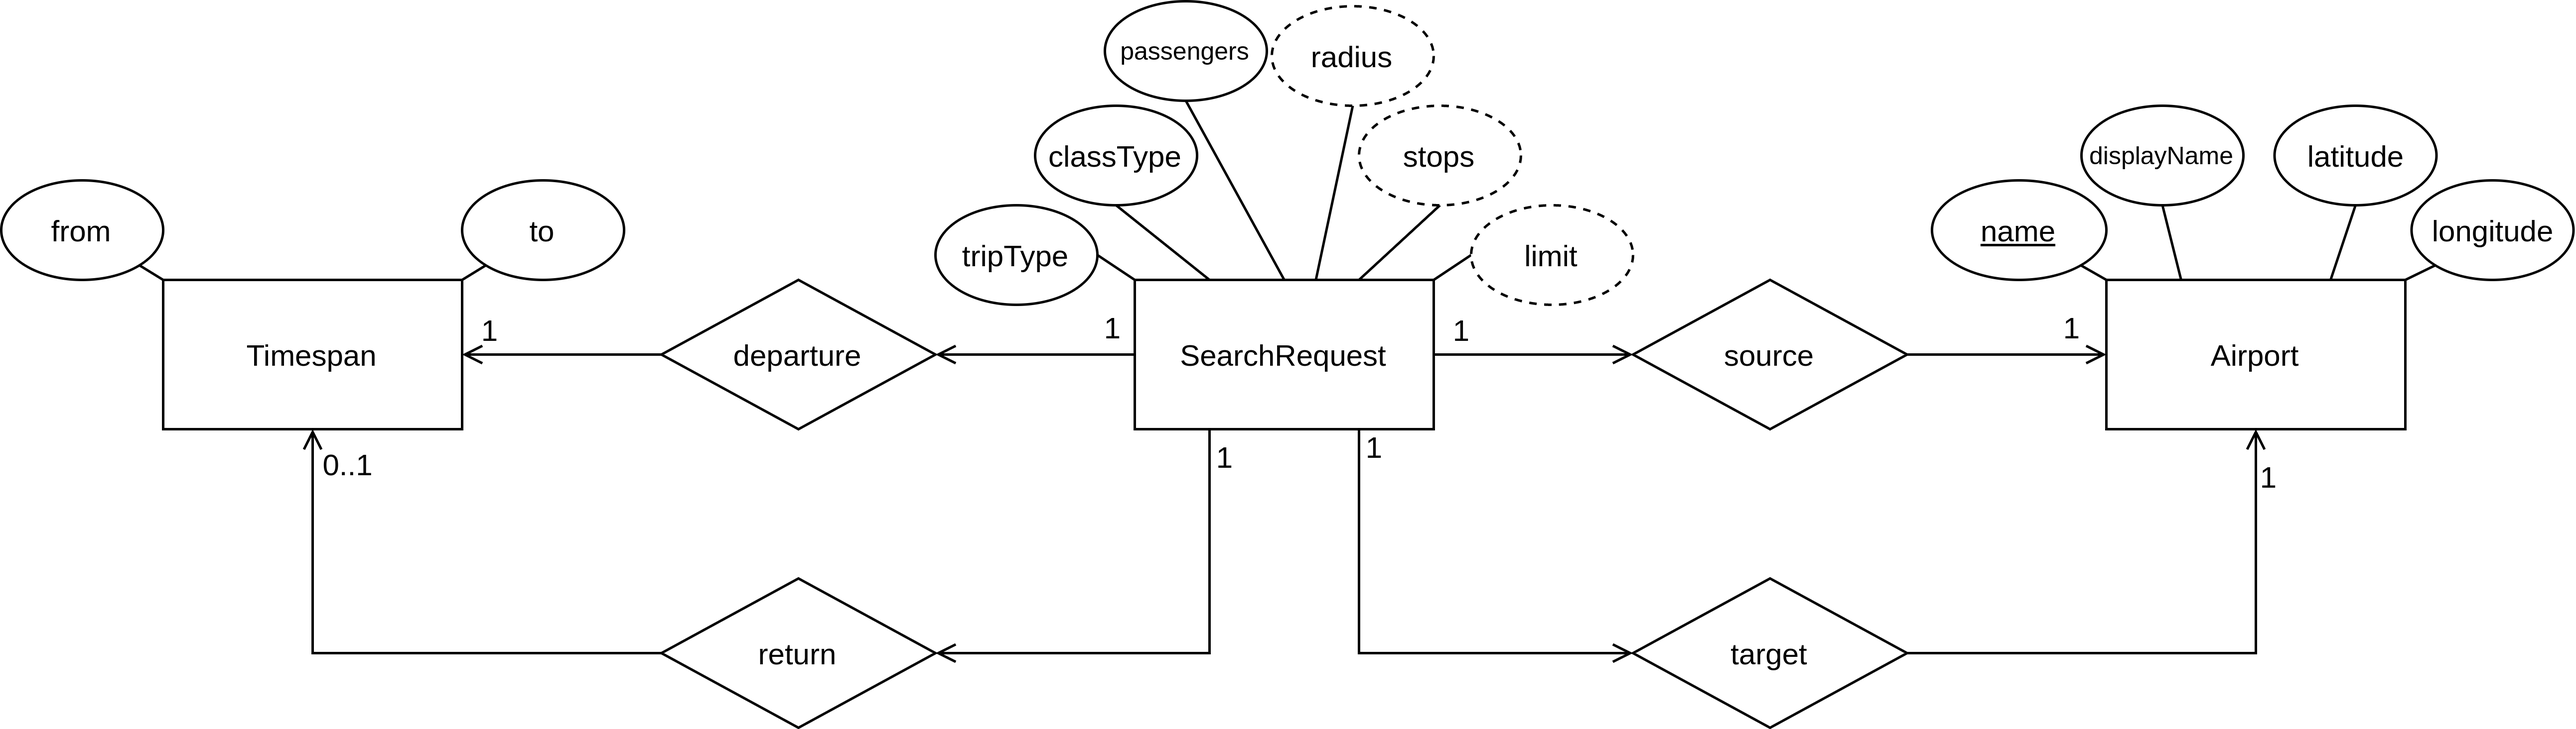
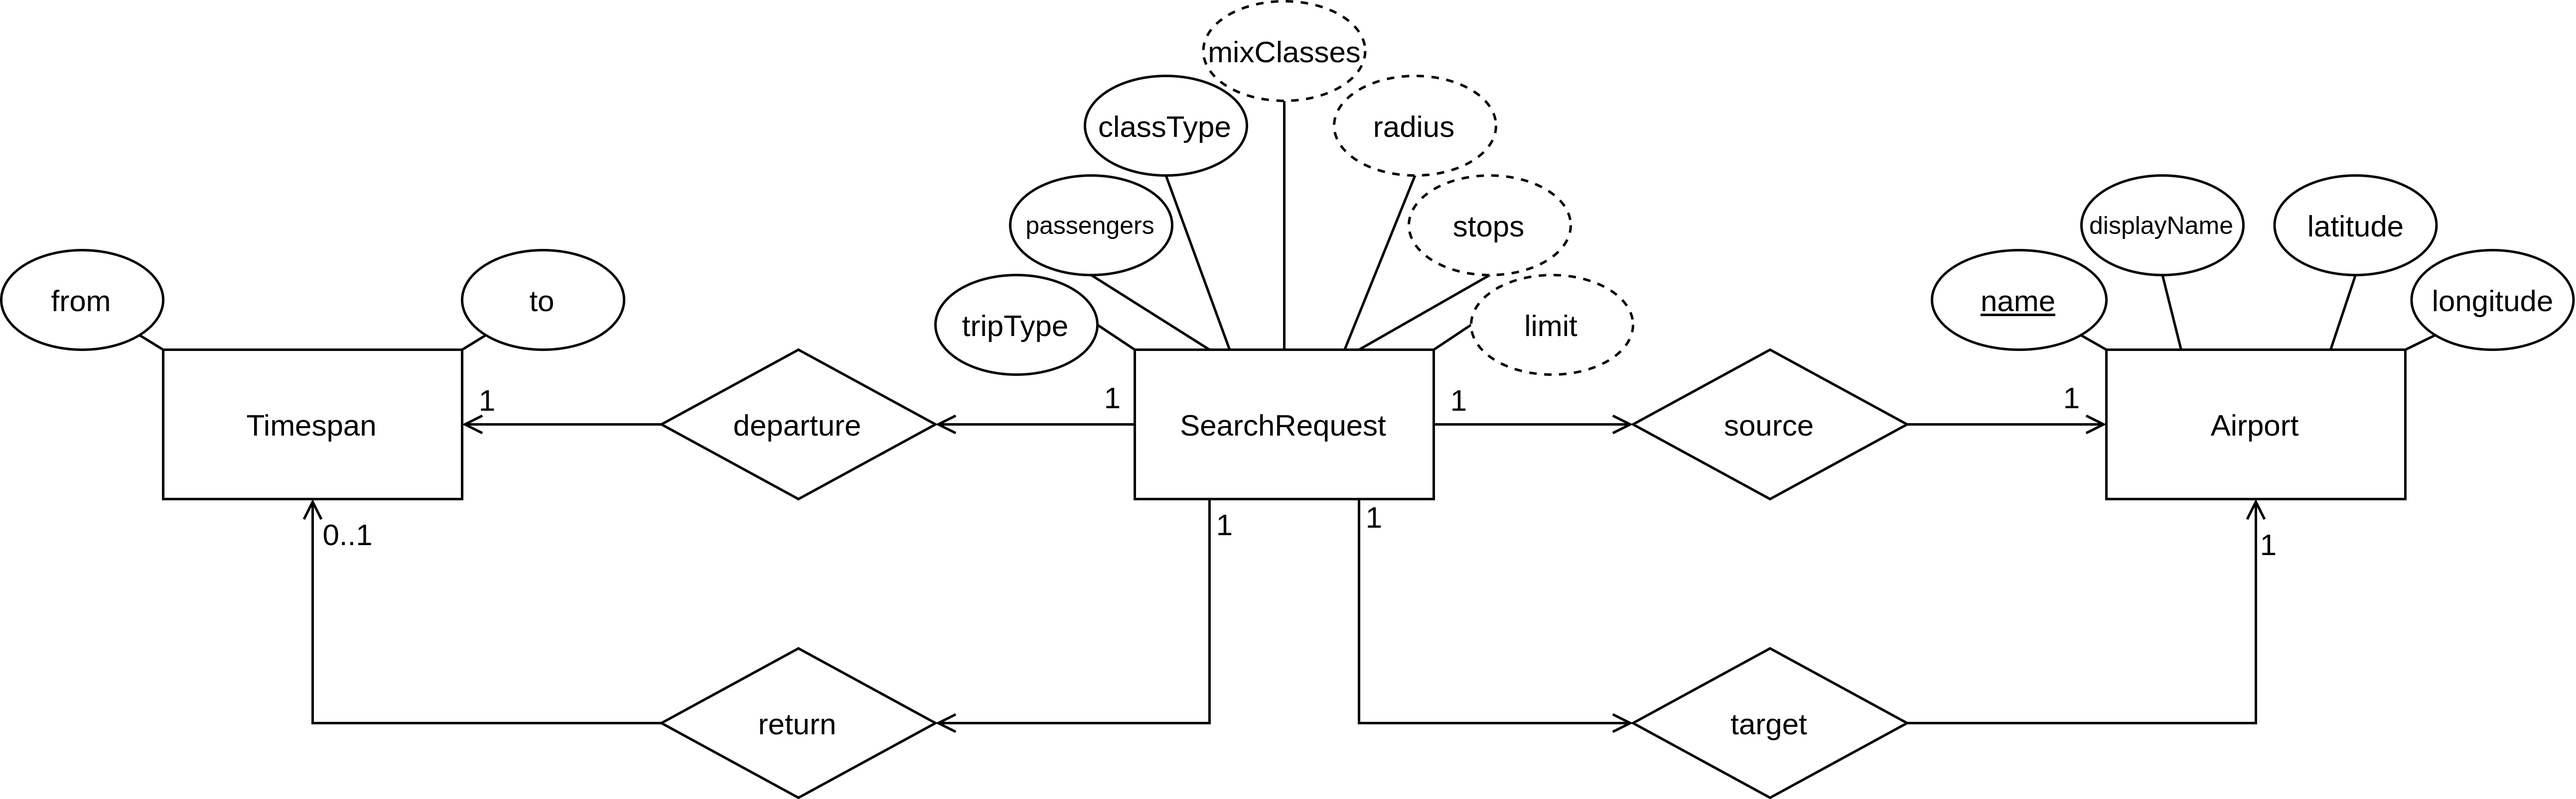
Update to new application state.

diff --git a/paper.tex b/paper.tex
@@ -124,7 +124,7 @@ Ein kostenloser Anbieter für ein Webrepository ist zum Beispiel \href{https://g
 Um Änderungen zwischen Branches auszutauschen bietet GitHub sogenannte \textit{pull requests}. In diesen werden die Änderungen übersichtich dargestellt und ein akzeptieren des Pull Request hat einen \textit{merge} in den Ziel-Branch zur Folge.\\
 Die Aufgabenorganisation wird mithilfe von \textit{Issues} durchgeführt, welche sich zusammensetzen aus Titel, Beschreibung und Metadaten wie Bearbeitender, Label oder Bearbeitungsstatus. Der Bearbeitungsstatus der Issues lässt sich in einem \textit{Project}-Board (zum Beispiel Kanban/Scrum) organisieren.\\
 Des Weiteren bietet \textit{GitHub Pages} die Möglichkeit, kostenlos statische Web-Inhalte zu hosten. Dabei kann eine \acrshort{ci} benutzt werden um die Inhalte aus dem jeweiligen Projekt automatisch zu generieren und veröffentlichen.\\
-Auf GitHub befinden sich für diese Studienarbeit sowohl die \href{https://github.com/featherkraken}{Repositories} als auch das automatisierte \href{https://github.com/orgs/featherkraken/projects/1}{Project-Board} dazu. Außerdem wurde die aktuelle Version des \href{https://featherkraken.github.io/featherkraken-ui/}{Frontends} und dieses \href{https://featherkraken.github.io/featherkraken-paper/paper.pdf}{Dokuments} in GitHub Pages veröffentlicht.
+Auf GitHub befinden sich für diese Studienarbeit sowohl die \href{https://github.com/featherkraken}{Repositories} als auch das automatisierte \href{https://github.com/orgs/featherkraken/projects/1}{Project-Board} dazu. Außerdem wurden die aktuelle Versionen des \href{https://featherkraken.github.io/featherkraken-ui/}{Frontends} und dieses \href{https://featherkraken.github.io/featherkraken-paper/paper.pdf}{Dokuments} in GitHub Pages veröffentlicht.
 \subsection{CircleCI}
 Da die eingebaute \acrshort{ci} von GitHub nicht zufriedenstellend mit Docker zusammen funktioniert, wurde die externe Lösung \href{https://circleci.com/}{CircleCI} verwendet. Dabei lassen sich Docker-Container zum Ausführen von Befehlen verwenden um komplexere Szenarien umsetzen zu können. Die gute Integration von GitHub und CircleCI hat zur Folge, dass Tests und andere Überprüfungen automatisch mit jedem \textit{push} ausgelöst werden können. Diese Überprüfungen lassen sich im \textit{pull request} des betroffenen Branches nachvollziehen und auftretende Fehler werden sofort dargestellt.
 \subsection{Maven}
@@ -263,11 +263,12 @@ So kann eine Suchanfrage für Flüge von Frankfurt und Umgebung (100km) zum Beis
 	"return": {
 		"from": "22.11.2020"
 	},
-	"classType": "Economy",
+	"classType": "Business",
+	"mixClasses": false,
 	"tripType": "Round trip"
 }
 \end{Verbatim}
-Für die Flughafenobjekte in \texttt{source} und \texttt{target} ist nur der eindeutige \acrlong{iata} in \texttt{source.name} entscheidend. Der Radius wird in Kilometern angegeben. In diesem Beispiel werden Hin- und Rückflüge zwischen Frankfurt und Los Angeles in der Klasse 'Economy' gesucht. Außerdem ist zu erkennen, wie ein variables Abflugdatum (11.11. - 13.11.2020) angegeben werden kann.
+Für die Flughafenobjekte in \texttt{source} und \texttt{target} ist nur der eindeutige \acrlong{iata} in \texttt{source.name} entscheidend. Der Radius wird in Kilometern angegeben. In diesem Beispiel werden Hin- und Rückflüge zwischen Frankfurt und Los Angeles in der Klasse 'Business' gesucht, wobei auch geringere Klassen benutzt werden können (\texttt{mixClasses}). Außerdem ist zu erkennen, wie ein variables Abflugdatum (11.11. - 13.11.2020) angegeben werden kann.
 \subsection{Frontend}
 Das Frontend ist eine Web-Anwendung, die mit dem Framework React.js\textsuperscript{\ref{sec:react}} in TypeScript\textsuperscript{\ref{sec:typescript}} geschrieben wurde.\\
 Durch den Einsatz von der Bibliothek \texttt{react-bootstrap} lassen sich Komponenten im Material Design einfach zusammenbauen. Material Design wurde von Google entwickelt und ist eine Design-Richtlinie für Oberflächen. Der Vorteil ist, dass man dabei kein Grafikdesigner sein muss, um eine ansprechende Webanwendung zu bauen.
@@ -315,22 +316,15 @@ Außerdem gibt es Testfälle für das Frontend, um die Umsetzung der Anwendung m
 \newpage
 % Ende
 \section{Fazit}
-In diesem Kapitel wird zunächst in einem Ausblick auf Möglichkeiten zur Verbesserung der Anwendung eingegangen, denn Software-Entwicklung ist ein niemals abgeschlossener Vorgang. Danach werden bekannte Probleme und Einschränkungen aufgelistet, die noch nicht gelöst werden konnten, wobei jedoch Lösungsansätze zum weiteren Vorgehen aufgeführt werden. Alle Probleme sind in GitHub Issues festgehalten, sodass sie nicht in Vergessenheit geraten können. Zum Abschluss wird das gesamte Projekt noch einmal zusammengefasst.
+In diesem Kapitel wird zunächst in einem Ausblick auf Möglichkeiten zur Verbesserung der Anwendung eingegangen, denn Software-Entwicklung ist ein niemals abgeschlossener Vorgang. Alle Punkte sind in GitHub Issues festgehalten, sodass sie nicht in Vergessenheit geraten können. Zum Abschluss wird das gesamte Projekt noch einmal zusammengefasst.
 \subsection{Ausblick}
 Um die Funktion der Anwendung zu erweitern, könnte man zum Beispiel weitere externe Schnittstellen anbinden, um eventuell billigere Flüge als die von Kiwi.com zu finden. Dazu wurden die betroffenen Klassen des Java-Backends schon so abstrakt geschrieben, sodass dies mit angemessenen Aufwand umsetzbar ist.\\
 Dabei ist jedoch anzumerken, dass diese externen Aufrufe bist jetzt nicht asynchron erfolgen. Das heißt, dass gewartet wird bis alle externen Schnittstellen geantwortet haben. Das hat zur Folge, dass die Antwortzeit äquivalent zur langsamsten Schnittstelle ist. Um das zu ändern, muss zunächst evaluiert werden, ob diese asynchron beantwortet werden können.\\
 Als weitere Verbesserung kann die Geschwindigkeit der Aufrufe dokumentiert werden. Damit kann entschieden werden, ob bestimmte externe Schnittstellen zu langsam sind und damit wieder entfernt werden sollten. Für diese Art von Monitoring gibt es bereits Lösungen wie \href{https://prometheus.io/}{\textit{Prometheus}} oder die eingebaute Funktion von Eclipse Microprofile mithilfe sogenannter \textit{Metrics}.\\
 Des Weiteren kann auch ein Entfernungsfilter für den Zielflughafen auf die selbe Art wie für den Startflughafen hinzugefügt werden. Dazu müsste das Backend und die Oberfläche angepasst werden. Da dies jedoch nicht im Fokus der Aufgabe stand, sei das jedoch nur als Idee anzumerken.\\
-Bei der Entwicklung der Anwendung fiel außerdem auf, dass es neben der Rest-Schnittstelle von Kiwi.com eine äquivalente GraphQL-Schnittstelle (siehe \href{https://partners.kiwi.com/presenting-tequila-revolution-travel-industry/}{hier}) gibt. Das könnte bedeuten, dass die Rest-Schnittstelle veraltet ist und deshalb bestimmte Probleme auftreten (siehe \ref{sec:mixed-classes}). In diesem Fall wäre es ratsam, auf die GraphQL-Schnittstelle umzusteigen.
-\subsection{Bekannte Probleme}
-\subsubsection{AirportsFinder}
-Die externe Schnittstelle \href{https://rapidapi.com/cometari/api/airportsfinder}{AirportsFinder} zur Suche von Flughäfen in einem bestimmten Radius scheint eine Priorisierung der Flughäfen oder eine Einschränkung der Ergebnismenge vorzunehmen. So kann man zum Beispiel den Flughafen 'Leipzig/Halle LEJ' von Berlin aus mit einem Radius von 150km finden, jedoch nicht von München mit einem Radius von 360km. Dies hat zur Folge, dass für manche Flüge nicht der absolut günstigste Flug gefunden werden kann. Deshalb muss in Zukunft eine andere externe Schnittstelle zum Suchen von Flughäfen in einem gegebenen Radius gefunden werden.
-\subsubsection{Suche mit gemischten Klassen}\label{sec:mixed-classes}
-Die Schnittstelle für die Flugsuche von Kiwi.com bietet die Möglichkeit, mit dem Parameter \texttt{mix\_with\_cabins} über mehrere Klassen zu suchen, wenn keine Flüge in der angegebenen Klasse gefunden werden können. Diese Funktion ist bei der Schnittstelle von Kiwi.com nicht gut dokumentiert oder fehlerhaft umgesetzt. Zur Lösung für dieses Problem könnten weitere Anfragen mit anderen Klassen abgeschickt werden, wenn die gegebene Klasse keine Ergebnisse liefert.
-\subsubsection{Deployment des Backend}
 Es wurde versucht, das Java-Backend auf \href{https://www.heroku.com/}{\textit{Heroku}} zu hosten, damit sie jederzeit im Internet genutzt werden kann. Dies war aber selbst nach vielen Tagen nicht nachvollziehbar, also wurde dieser Ansatz verworfen. Als Zwischenlösung könnte die Anwendung auf einem Linux-Server bereitgestellt werden. Dies sollte automatisch mit jeder Änderung im GitHub Repository erfolgen, wie es mit \textit{Heroku} versucht wurde.
 \subsection{Zusammenfassung}
-Nachdem die Aufgabenstellung evaluiert wurde, konnte schrittweise eine Softwarelösung entworfen werden. Dabei wurden verschiedene Abstraktionsebenen des Problems betrachtet und jeweilige Lösungen gefunden. Mit den gewählten Technologien wurde eine Webanwendung und eine Serveranwendung entwickelt, welche sich durch hohe Plattformunabhängigkeit auszeichnen. Es wurde darauf geachtet, dass die Anwendung leicht erweitert werden kann und der Code verständlich ist. Die Anwendungen werden mit \acrfull{ci} automatisch getestet und im Falle der Webanwendung auch immer mit dem neuesten Stand im Internet veröffentlicht. Abschließend wurden aufgetretene Probleme dokumentiert und Lösungsansätze aufgeführt.
+Nachdem die Aufgabenstellung evaluiert wurde, konnte schrittweise eine Softwarelösung entworfen werden. Dabei wurden verschiedene Abstraktionsebenen des Problems betrachtet und jeweilige Lösungen gefunden. Mit den gewählten Technologien wurde eine Webanwendung und eine Serveranwendung entwickelt, welche sich durch hohe Plattformunabhängigkeit auszeichnen. Es wurde darauf geachtet, dass die Anwendung leicht erweitert werden kann und der Code verständlich ist. Die Anwendungen werden mit \acrfull{ci} automatisch getestet und im Falle der Webanwendung auch immer mit dem neuesten Stand im Internet veröffentlicht. Abschließend wurde ein Ausblick auf Verbesserungsmöglichkeiten und Ansätze dafür aufgeführt.
 \end{sloppypar}
 % Literaturverzeichnis
 \newpage
